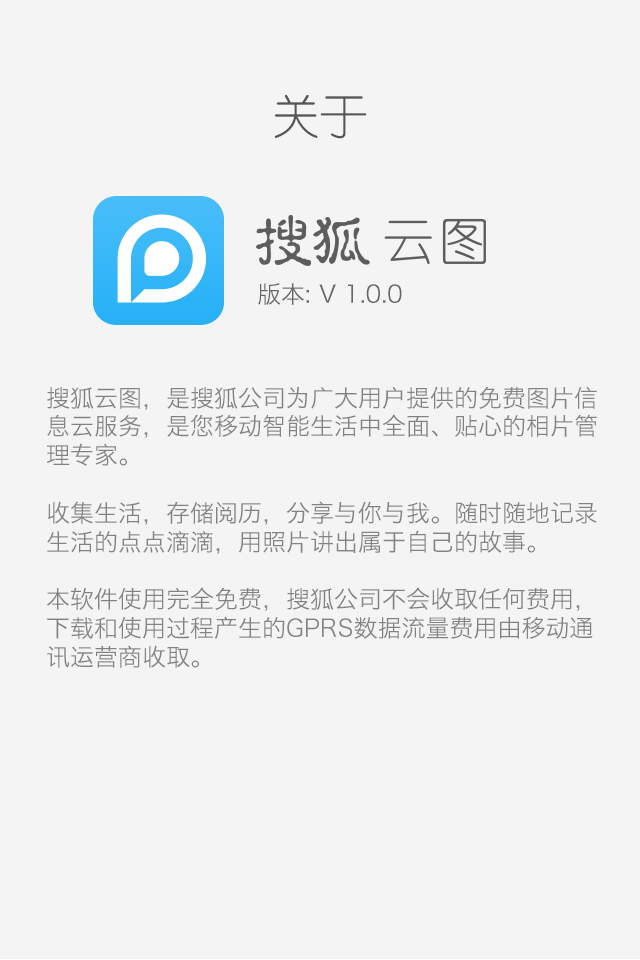
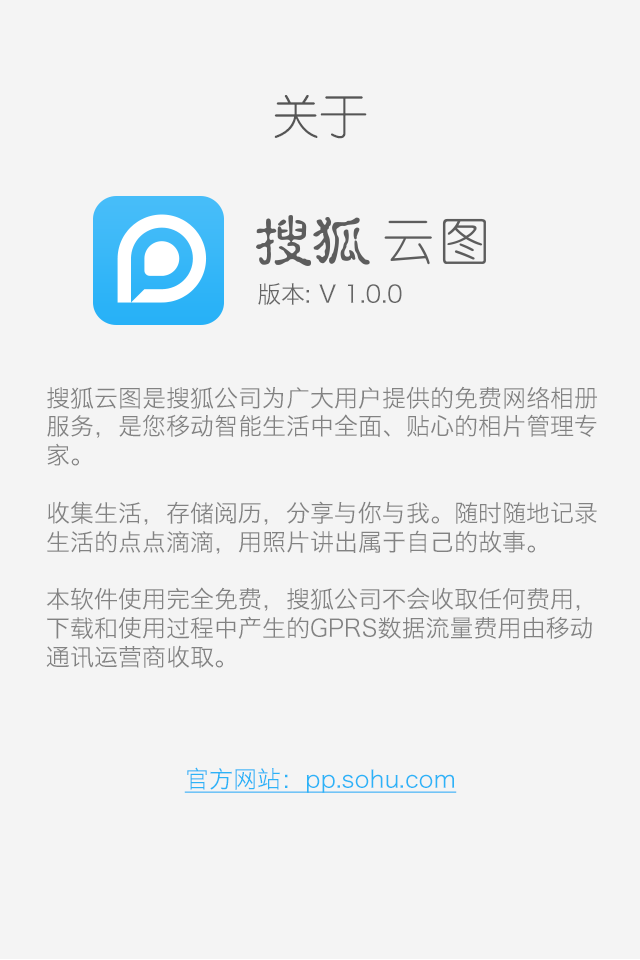
Autonrize host fix,photoList dubug, upload folderstableview, aboutView

diff --git a/SohuCloudPics/Network/SCPRequestManager.m b/SohuCloudPics/Network/SCPRequestManager.m
@@ -68,24 +68,37 @@
 {
     //    NSLog(@"%s",__FUNCTION__);
     if (requsetCode >= 200 && requsetCode <= 300) return YES;
-    if (requsetCode == 401) [self refreshToken:401];
-    
-    if ([_delegate respondsToSelector:@selector(requestFailed:)])
-        [_delegate performSelector:@selector(requestFailed:) withObject:REQUSETFAILERROR];
-    
-    return NO;
+    if (requsetCode == 401) {
+        [self refreshToken:401];
+        if ([_delegate respondsToSelector:@selector(requestFailed:)])
+            [_delegate performSelector:@selector(requestFailed:) withObject:REQUSETFAILERROR];
+        return NO;
+    }
+    //for folders
+    if (requsetCode == 404) {
+        if ([_delegate respondsToSelector:@selector(requestFailed:)])
+            [_delegate performSelector:@selector(requestFailed:) withObject:@"您访问的专辑已不存在"];
+        return NO;
+    }
+    return g;
 }
 - (BOOL)handlerequsetStatucode:(NSInteger)requsetCode withblock:(void (^) (NSString * error))failure
 {
-    //    NSLog(@"%s",__FUNCTION__);
+    
     if (requsetCode >= 200 && requsetCode <= 300) return YES;
     if (requsetCode == 401) {
         [self refreshToken:401];
         failure(REQUSETFAILERROR);
         return NO;
     }
+    //for create Album
     if (requsetCode == 406) {
         failure(@"专辑数目已到最大");
+        return NO;
+    }
+    //for rename user name
+    if (requsetCode == 403) {
+        failure(@"用户名存在,修改失败");
         return NO;
     }
     failure(REQUSETFAILERROR);
@@ -637,7 +650,6 @@
     [request setPostValue:[NSNumber numberWithBool:NO] forKey:@"is_public"];
     [request setPostValue:[SCPLoginPridictive currentToken] forKey:@"access_token"];
 	[request setCompletionBlock:^{
-        
         NSInteger code = [request responseStatusCode];
         if ([self handlerequsetStatucode:code withblock:failure]) {
             success([request responseString]);
@@ -680,13 +692,14 @@
     [request setPostValue:description forKey:@"description"];
     [request setRequestMethod:@"PUT"];
 	[request setCompletionBlock:^{
+//        NSLog(@" sucess::%d :%@",[request responseStatusCode],[request responseString]);
         NSInteger code = [request responseStatusCode];
         if ([self handlerequsetStatucode:code withblock:failure]) {
             success([request responseString]);
         }
     }];
     [request setFailedBlock:^{
-        //        NSLog(@"%@",[request responseString]);
+//        NSLog(@" failture::%d :%@",[request responseStatusCode],[request responseString]);
         failure(REQUSETFAILERROR);
     }];
     [request startAsynchronous];
@@ -730,7 +743,6 @@
         }
     }];
     [request setFailedBlock:^{
-        NSLog(@"%@",[request responseString]);
         failure(REQUSETFAILERROR);
     }];
     [request startAsynchronous];

diff --git a/SohuCloudPics/Controller/settingController/SCPAboutController.m b/SohuCloudPics/Controller/settingController/SCPAboutController.m
@@ -7,7 +7,7 @@
 //
 
 #import "SCPAboutController.h"
-
+#define PPHOST @"http://pp.sohu.com"
 
 @implementation SCPAboutController
 
@@ -20,7 +20,6 @@
     image.frame = CGRectMake(0, 0, 320, 480);
     [self.view addSubview:image];
     self.view.backgroundColor = [UIColor colorWithRed:244.0f/255.f green:244.0f/255.f blue:244.0f/255.f alpha:1];
-
     UIButton* backButton = [UIButton buttonWithType:UIButtonTypeCustom];
     [backButton setBackgroundImage:[UIImage imageNamed:@"header_back.png"] forState:UIControlStateNormal];
     [backButton setBackgroundImage:[UIImage imageNamed:@"header_back_press.png"] forState:UIControlStateHighlighted];
@@ -35,9 +34,19 @@
     sohu2003.frame = rect;
     [self.view addSubview:sohu2003];
     
+    UIButton * ppsohu = [UIButton buttonWithType:UIButtonTypeCustom];
+    ppsohu.frame = CGRectMake(183/ 2.f, 768 / 2.f, 150, 20);
+    [ppsohu addTarget:self action:@selector(openPPSohu:) forControlEvents:UIControlEventTouchUpInside];
+    [self.view addSubview:ppsohu];
+}
+- (void)openPPSohu:(id)sender
+{
+    NSLog(@"%s",__FUNCTION__);
+    [[UIApplication sharedApplication] openURL:[NSURL URLWithString:PPHOST]];
 }
 - (void)aboutNavigationBack:(UIButton*)button
 {
     [self.navigationController popViewControllerAnimated:YES];
 }
+
 @end

diff --git a/SohuCloudPics/Network/SCPTaskManager/SCPAlbumTaskList.m b/SohuCloudPics/Network/SCPTaskManager/SCPAlbumTaskList.m
@@ -125,10 +125,9 @@
         [self requestFailed:request];
         return;
     }
-//    NSLog(@"requestFinish:NNNN::%s, %d, %@",__FUNCTION__,[request responseStatusCode],[request error]);
     NSDictionary * dic = [[request responseString] JSONValue];
+    NSLog(@"%@",dic);
     NSInteger code = [[dic objectForKey:@"code"] intValue];
-    
     if (![self handleCode:code]) return;
     
     [request cancel];
@@ -142,7 +141,6 @@
     if (self.taskList.count) {
         [self goNextTask];
     }else{
-        
     //        NSLog(@"Task Finished");
         if ([_delegate respondsToSelector:@selector(albumTaskQueneFinished:)]) {
             [_delegate performSelector:@selector(albumTaskQueneFinished:) withObject:self];
@@ -193,8 +191,7 @@
 }
 - (void)requestFailed:(ASIHTTPRequest *)request
 {
-    
-//    NSLog(@"requestFailed:NNNN::%s, %d, %@",__FUNCTION__,[request responseStatusCode],[request error]);
+    NSLog(@"requestFailed:NNNN::%s, %d, %@",__FUNCTION__,[request responseStatusCode],[request error]);
     [request cancel];
     [request clearDelegatesAndCancel];
     NSDictionary * dic = [request userInfo];

diff --git a/SohuCloudPics/Controller/UploadController/Views/SCPUploadHeader.m b/SohuCloudPics/Controller/UploadController/Views/SCPUploadHeader.m
@@ -197,11 +197,12 @@
     if (_albumChooseButton.tag) {
         // very very bad design, must be fixed later!!!
         UITableView *table = (UITableView *) self.superview;
-        _albumsTable.frame = CGRectMake(10, _albumsTable.frame.origin.y  - table.contentOffset.y, _albumChooseButton.frame.size.width, _foldersArray.count * 40 + 40  > 200 ? 200 + OFFSET :_foldersArray.count * 40 + 40 + OFFSET);
+        _albumsTable.frame = CGRectMake(10, _albumsTable.frame.origin.y  - table.contentOffset.y, _albumChooseButton.frame.size.width, _foldersArray.count * 40 + 40  > 200 ? 200 + OFFSET :_foldersArray.count * 40 + 40);
         [self.superview.superview addSubview:_albumsTable];
         [self.superview.superview bringSubviewToFront:_albumsTable];
         [_albumsTable becomeFirstResponder];
         [_albumsTable flashScrollIndicators];
+        
     } else {
         [_albumsTable removeFromSuperview];
     }

diff --git a/SohuCloudPics/Controller/PhotoDetailController/Manager/PhotoDetailManager.m b/SohuCloudPics/Controller/PhotoDetailController/Manager/PhotoDetailManager.m
@@ -175,7 +175,6 @@
     [(PullingRefreshController *)_controller.pullingController moreDoneLoadingTableViewData];
     [self.controller.pullingController reloadDataSourceWithAniamtion:NO];
 }
-
 #pragma mark -
 #pragma mark Banner Datasouce
 - (BOOL)isNULL:(id)str
@@ -184,7 +183,11 @@
 }
 - (NSString*)bannerDataSouceLeftLabel
 {
-    return [NSString stringWithFormat:@"%@",[self.infoFromSuper objectForKey:@"folder_name"]];
+    if (self.infoFromSuper) {
+        return [NSString stringWithFormat:@"%@",[self.infoFromSuper objectForKey:@"folder_name"]];
+    }else{
+        return nil;
+    }
 }
 
 - (NSString*)bannerDataSouceRightLabel

diff --git a/SohuCloudPics/Controller/PhotoDetailController/Manager/SCPPhotoListController.m b/SohuCloudPics/Controller/PhotoDetailController/Manager/SCPPhotoListController.m
@@ -299,6 +299,10 @@
     [self.view setUserInteractionEnabled:YES];
     SCPAlert_CustomeView * alertView = [[[SCPAlert_CustomeView alloc] initWithTitle:error] autorelease];
     [alertView show];
+    photoNum = curPage = 0;
+    [imageArray addObject:self.info];
+    [self refreshScrollView];
+    isInit = NO;
 }
 
 - (NSInteger)getindexofImages
@@ -520,7 +524,6 @@
 #pragma mark Refresh ScrollView
 - (void)setScrollViewProperty
 {
-    
     self.scrollView.pagingEnabled = YES;
     self.scrollView.contentSize = CGSizeMake(self.scrollView.frame.size.width * 3 , self.scrollView.bounds.size.height);
     self.scrollView.bounces = NO;

diff --git a/SohuCloudPics/Controller/settingController/SCPSettingUserinfoController.m b/SohuCloudPics/Controller/settingController/SCPSettingUserinfoController.m
@@ -50,7 +50,11 @@
         [tip release];
         return;
     }
+    
     [_request renameUserinfWithnewName:_nameFiled.text Withdescription:_description.text success:^(NSString *response) {
+        SCPAlert_CustomeView * toast = [[SCPAlert_CustomeView alloc] initWithTitle:@"修改成功"];
+        [toast show];
+        [toast release];
         [self.navigationController popViewControllerAnimated:YES];
     } failure:^(NSString *error) {
         SCPAlertView_LoginTip * alterview = [[SCPAlertView_LoginTip alloc] initWithTitle:error message:nil delegate:nil cancelButtonTitle:@"确定" otherButtonTitles:nil];

diff --git a/SohuCloudPics/Network/SCPTaskManager/SCPTaskUnit.m b/SohuCloudPics/Network/SCPTaskManager/SCPTaskUnit.m
@@ -13,8 +13,7 @@
 
 - (UIImage *)fixOrientation {
     
-    NSLog(@"imageOrientation::%d",self.imageOrientation);
-    
+//    NSLog(@"imageOrientation::%d",self.imageOrientation);
     // No-op if the orientation is already correct
     
     if (self.imageOrientation == UIImageOrientationUp) return self;
@@ -159,7 +158,7 @@
         }
         NSData * data = nil;
         if (!num || ![num boolValue]) {
-            NSLog(@"%s JPEG",__FUNCTION__ );
+//            NSLog(@"%s JPEG",__FUNCTION__ );
             //PNG
             data = UIImageJPEGRepresentation(image, 1.f);
         }else{

diff --git a/SohuCloudPics/Controller/LoginController/SCPAuthorizeViewController.m b/SohuCloudPics/Controller/LoginController/SCPAuthorizeViewController.m
@@ -83,10 +83,12 @@ static NSString * provider = nil;
     [self.view addSubview:webView];
     
 }
+
 - (void)webviewCancelLogin:(id)sender
 {
     [controller dismissModalViewControllerAnimated:YES];
 }
+
 - (void)loginWithCode
 {
     NSString * url_s = [NSString stringWithFormat:@"%@/oauth2/access_token",BASICURL];
